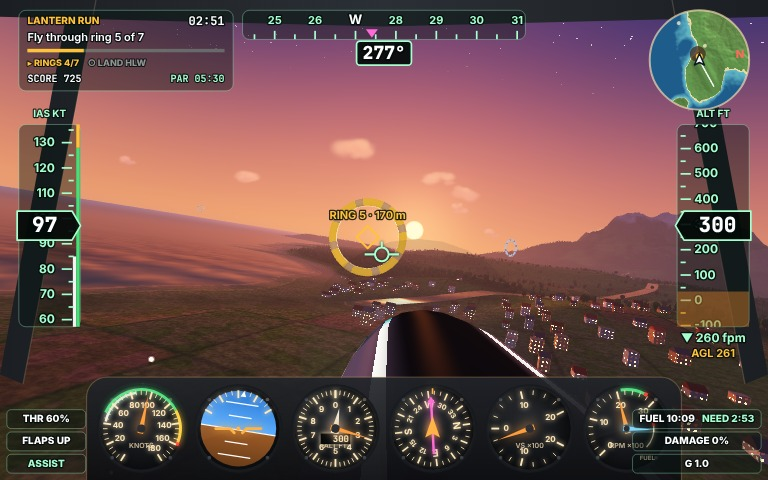
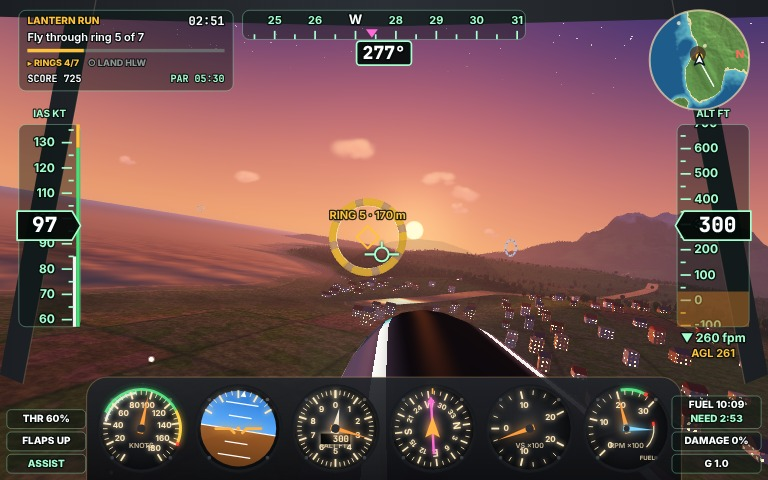
Stack FUEL and NEED where the cockpit panel leaves no room for the wide chip
Claude-Session: https://claude.ai/code/session_013aFgNxawAtzCzATrD7uXbz

Changed region(s): [[0.8125, 0.8125, 1.0, 1.0]]

diff --git a/game/src/hud/flight-hud.js b/game/src/hud/flight-hud.js
@@ -367,16 +367,29 @@ export function createFlightHud(canvas, minimap) {
       const fuelMin = view.fuelMinutes;
       const clock = (m) => `${Math.floor(m)}:${String(Math.floor((m % 1) * 60)).padStart(2, '0')}`;
       const need = view.mission?.fuelNeeded;
-      const chipW = Number.isFinite(need) ? 150 * u : 104 * u;
-      const right = Math.min(W - 8 * u - chipW, W / 2 + panelWidth / 2 + 12 * u);
-      glassPanel(right, H - 82 * u, chipW, 22 * u, 5 * u);
+      const planned = Number.isFinite(need);
+      const panelRight = W / 2 + panelWidth / 2 + 12 * u;
+      // FUEL and NEED share one wide chip where the panel leaves room, else stack in a taller narrow one.
+      const wide = planned && W - 8 * u - panelRight >= 150 * u;
+      const chipW = wide ? 150 * u : 104 * u;
+      const fuelH = planned && !wide ? 38 * u : 22 * u;
+      const right = Math.min(W - 8 * u - chipW, panelRight);
+      const top = H - 60 * u - fuelH;
+      glassPanel(right, top, chipW, fuelH, 5 * u);
       const fuelText = Number.isFinite(fuelMin) ? `FUEL ${clock(fuelMin)}` : 'FUEL --';
-      if (Number.isFinite(need)) {
+      const fuelColour = fuelMin < 1.5 ? RED : '#ffffff';
+      if (planned) {
         // Endurance at the present fuel flow against what the rest of the route needs at this ground speed.
         const margin = Number.isFinite(fuelMin) ? fuelMin / Math.max(need, 0.01) : Infinity;
-        text(fuelText, right + 8 * u, H - 71 * u, 12 * u, fuelMin < 1.5 ? RED : '#ffffff', 'left', 800);
-        text(`NEED ${clock(need)}`, right + chipW - 8 * u, H - 71 * u, 12 * u, margin < 1 ? RED : margin < 1.25 ? AMBER : GREEN, 'right', 800);
-      } else text(fuelText, right + chipW / 2, H - 71 * u, 12 * u, fuelMin < 1.5 ? RED : '#ffffff', 'center', 800);
+        const needColour = margin < 1 ? RED : margin < 1.25 ? AMBER : GREEN;
+        if (wide) {
+          text(fuelText, right + 8 * u, top + 11 * u, 12 * u, fuelColour, 'left', 800);
+          text(`NEED ${clock(need)}`, right + chipW - 8 * u, top + 11 * u, 12 * u, needColour, 'right', 800);
+        } else {
+          text(fuelText, right + chipW / 2, top + 11 * u, 12 * u, fuelColour, 'center', 800);
+          text(`NEED ${clock(need)}`, right + chipW / 2, top + 27 * u, 12 * u, needColour, 'center', 800);
+        }
+      } else text(fuelText, right + chipW / 2, top + 11 * u, 12 * u, fuelColour, 'center', 800);
       glassPanel(right, H - 56 * u, chipW, 22 * u, 5 * u);
       text(`DAMAGE ${Math.round(plane.airframe.damage * 100)}%`, right + chipW / 2, H - 45 * u, 12 * u, plane.airframe.damage > 0.3 ? RED : '#ffffff', 'center', 800);
       glassPanel(right, H - 30 * u, chipW, 22 * u, 5 * u);
